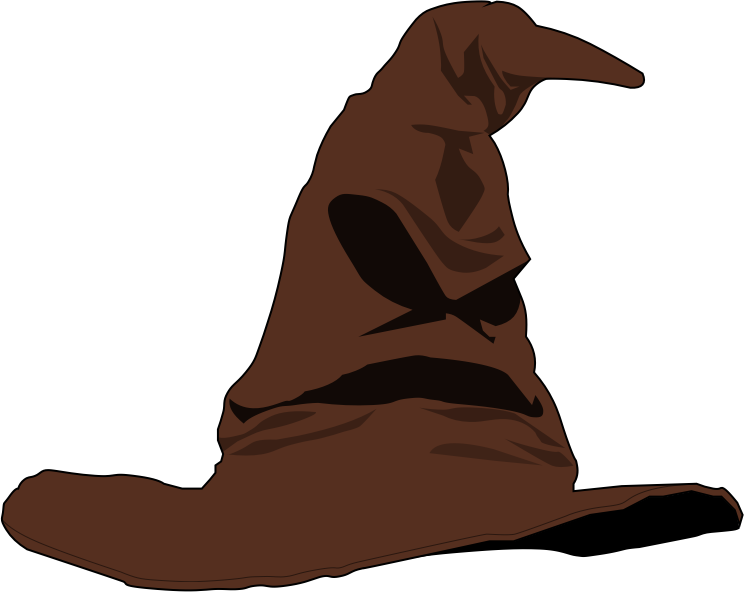
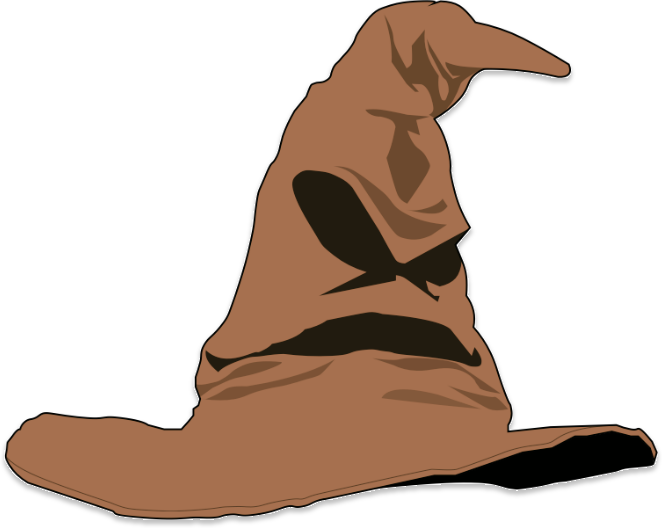
fix(*): normalize the project (#91)

diff --git a/source/components/SortingHatSection.js b/source/components/SortingHatSection.js
@@ -9,9 +9,7 @@ class SortingHatSection extends HTMLElement {
     style.replaceSync(`
       :host {
         height: 100%;
-        display: grid;
-        grid-template-columns: repeat(1, minmax(0, 1fr));
-        gap: 0.25rem;
+        display: flex;
       }
 
       .wrapper {
@@ -19,40 +17,36 @@ class SortingHatSection extends HTMLElement {
         flex-direction: column;
         place-items: center;
         place-content: center;
+        width: 100%;
       }
 
-      #button{
+      #button {
         display: flex;
         flex-direction: column;
-        justify-content: center;
-        align-items: center;
-      }
-
-      #button h1 {
-        display: inline-block;
-        padding: 0.5rem 1.5rem;
-        background-color: rgba(0, 0, 0, 0.5);
-        border-radius: 15px;
-        border: 1px solid black;
-        color: white;
-        font-size: 2.5rem;
+        gap: 1.5rem;
+        place-items: center;
+        place-content: center;
       }
 
       #button img {
-        vertical-align: middle;
-        margin-bottom: 2rem;
-        height: 25rem;
+        width: 24rem;
       }
 
-      @media (max-width: 640px) {
-        .button img {
-          height: 12rem;
-          justify-items: center;
+      #button h1 {
+        font-size: 2rem;
+        padding: 0.5rem 1.5rem;
+        background-color: rgba(0, 0, 0, 0.5);
+        border-radius: 0.5rem;
+        text-align: center;
+      }
+
+      @media (max-width: 768px) {
+        #button img {
+          width: 18rem;
         }
 
-        .button h1 {
-          font-size: 2rem;
-          border-radius: 10px;
+        #button h1 {
+          font-size: 1.5rem;
         }
       }
     `);
@@ -61,15 +55,15 @@ class SortingHatSection extends HTMLElement {
 
     this.shadowRoot.innerHTML = ` 
         <div class="wrapper">
-            <button id="button"> 
-              <img src="./images/sorting-hat.svg" alt="Image of the sorting hat"/>
-              <h1>CLICK ME TO BE SORTED</h1>
-            </button>
-          <div>
+          <div id="button"> 
+            <img src="./images/sorting-hat.png" alt="Image of the sorting hat"/>
+            <h1>Click Me To Be Sorted</h1>
+          </div>
+         <div>
     `;
 
     document.querySelector('#app').style.backgroundImage =
-      'url(./images/sorting-hat-bg.png)';
+      'url(./images/backgrounds/sorting-hat.png)';
   }
 }
 

diff --git a/source/components/SortOrChooseSection.js b/source/components/SortOrChooseSection.js
@@ -77,7 +77,7 @@ class SortOrChooseSection extends HTMLElement {
     `;
 
     document.querySelector('#app').style.backgroundImage =
-      'url(./images/sort-or-choose.png)';
+      'url(./images/backgrounds/sort-or-choose.png)';
   }
 }
 

diff --git a/source/components/HomeSection.js b/source/components/HomeSection.js
@@ -93,7 +93,7 @@ class Home extends HTMLElement {
     twinkle(this.shadowRoot, stars);
 
     document.querySelector('#app').style.backgroundImage =
-      'url(./images/home.jpeg)';
+      'url(./images/backgrounds/home.png)';
   }
 }
 

diff --git a/source/components/ChooseHouseSection.js b/source/components/ChooseHouseSection.js
@@ -85,7 +85,7 @@ class ChooseHouseSection extends HTMLElement {
     `;
 
     document.querySelector('#app').style.backgroundImage =
-      'url(./images/choose-house.png)';
+      'url(./images/backgrounds/choose-house.png)';
   }
 }
 
